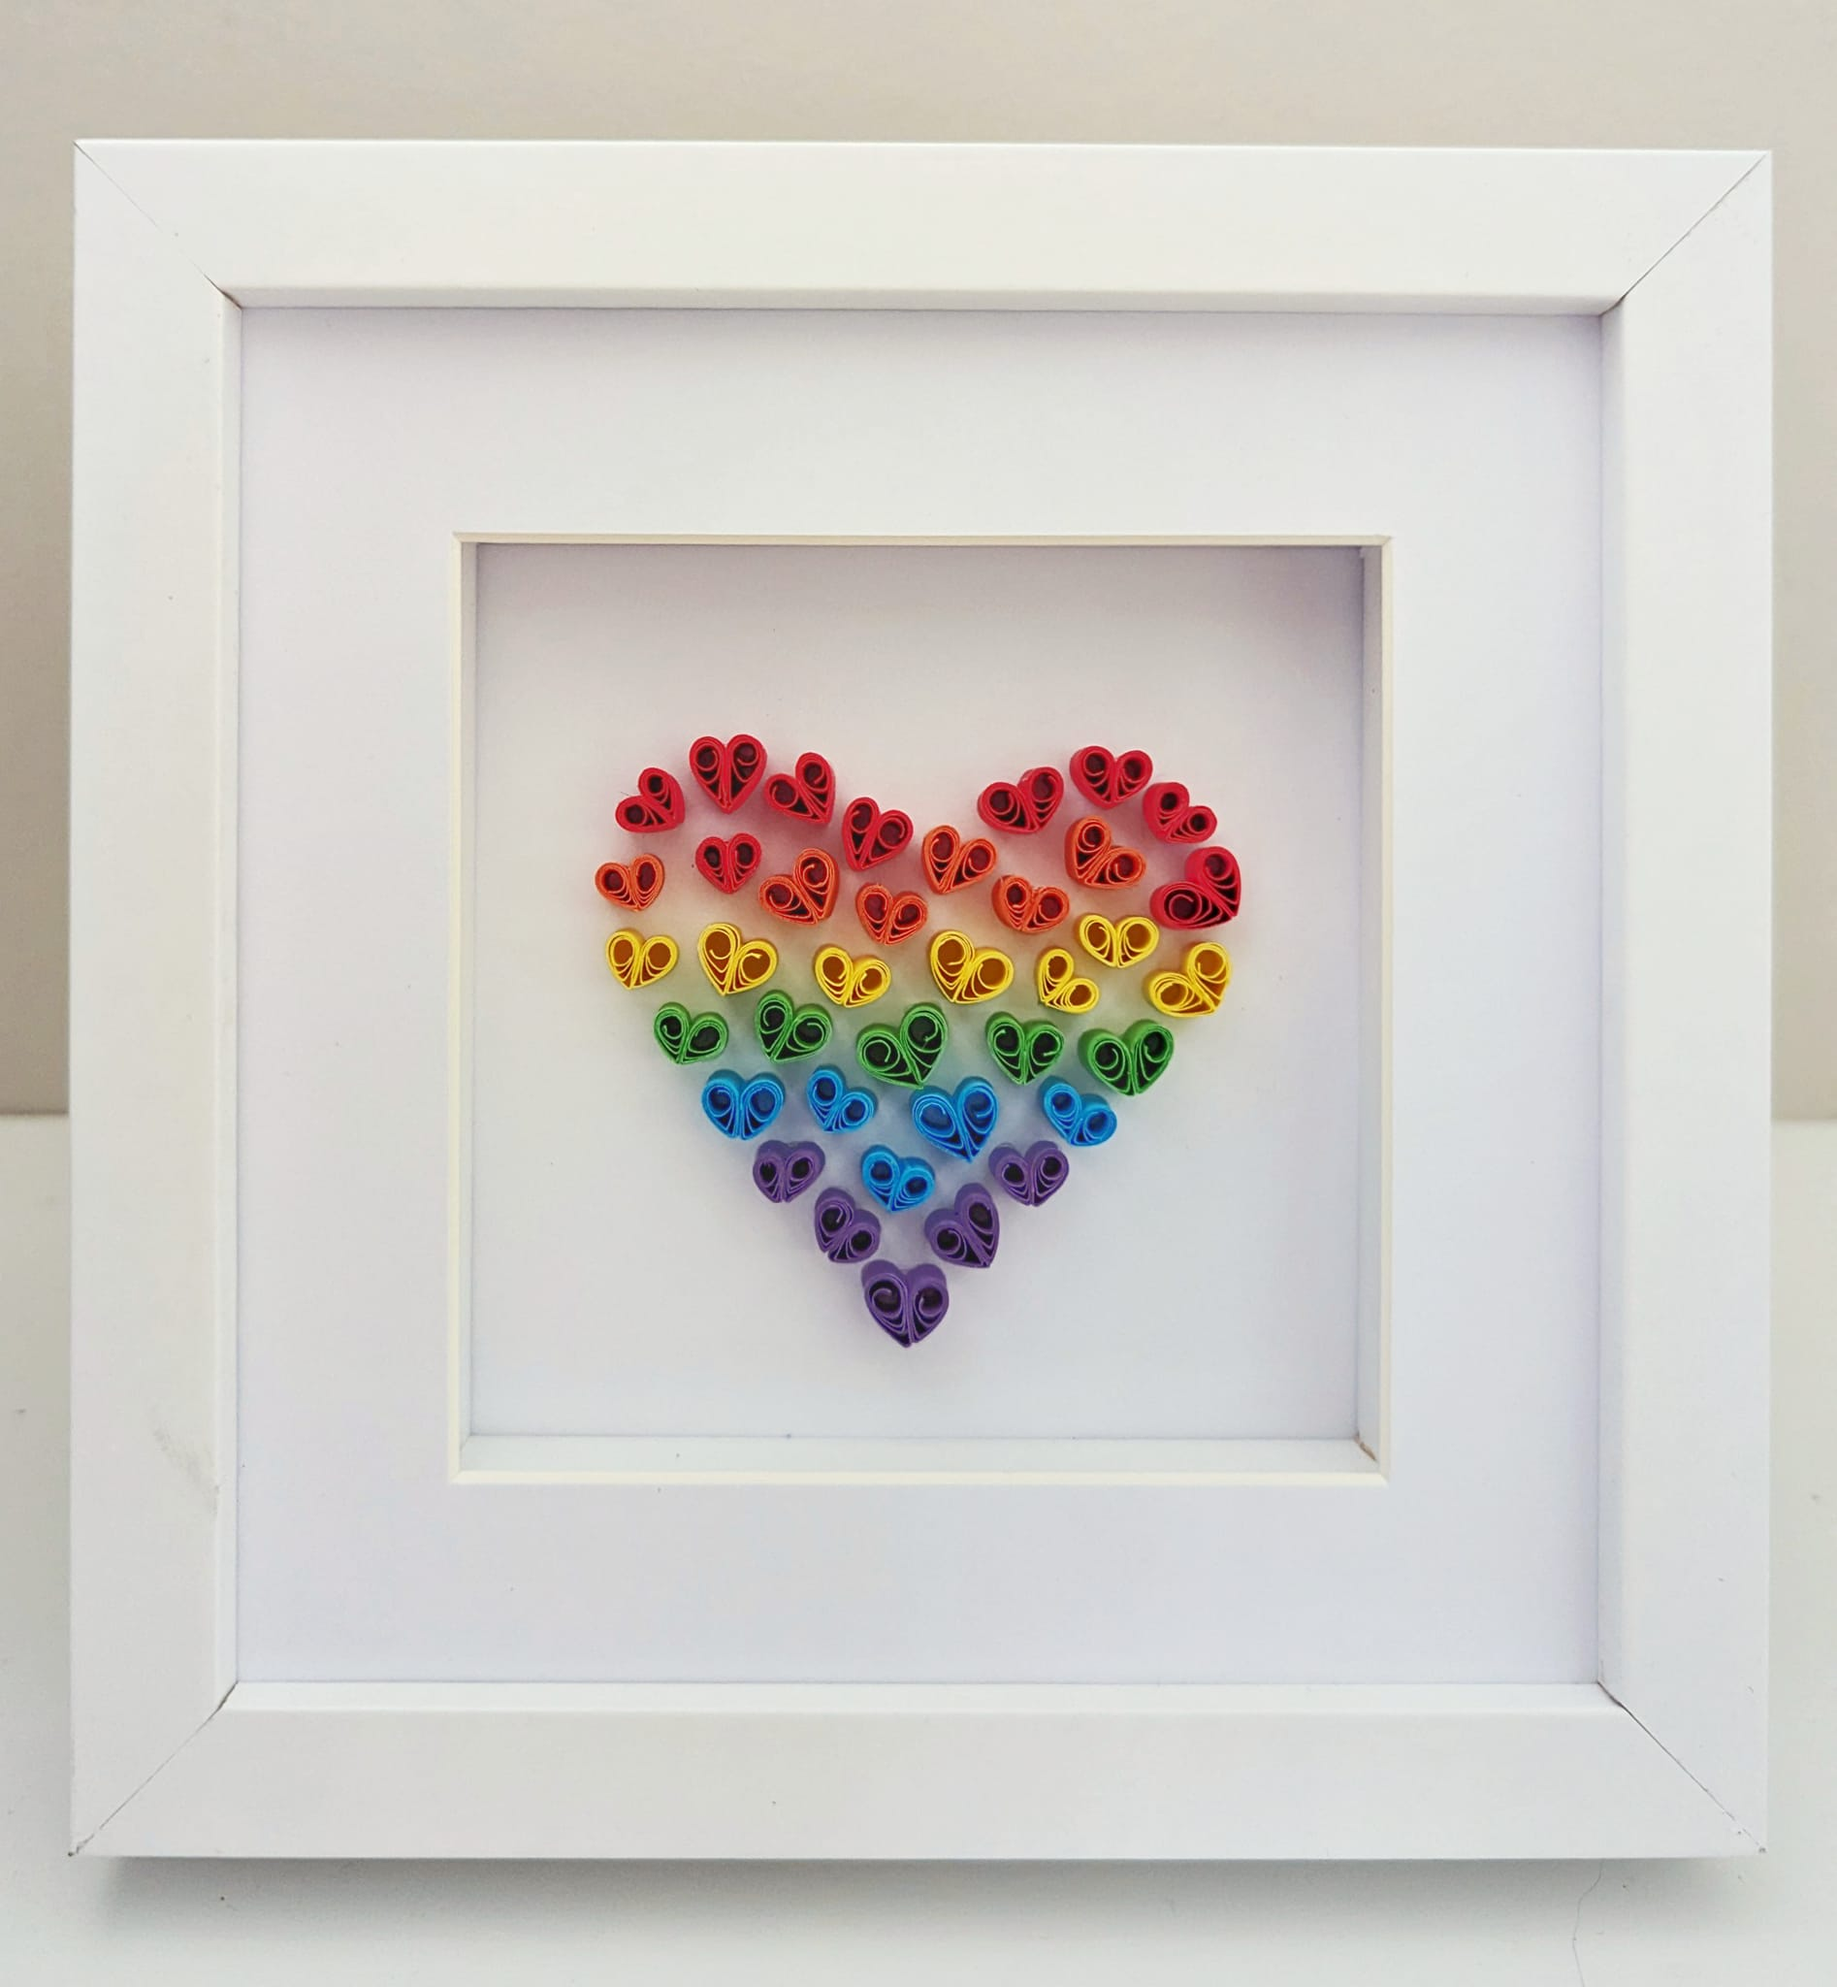
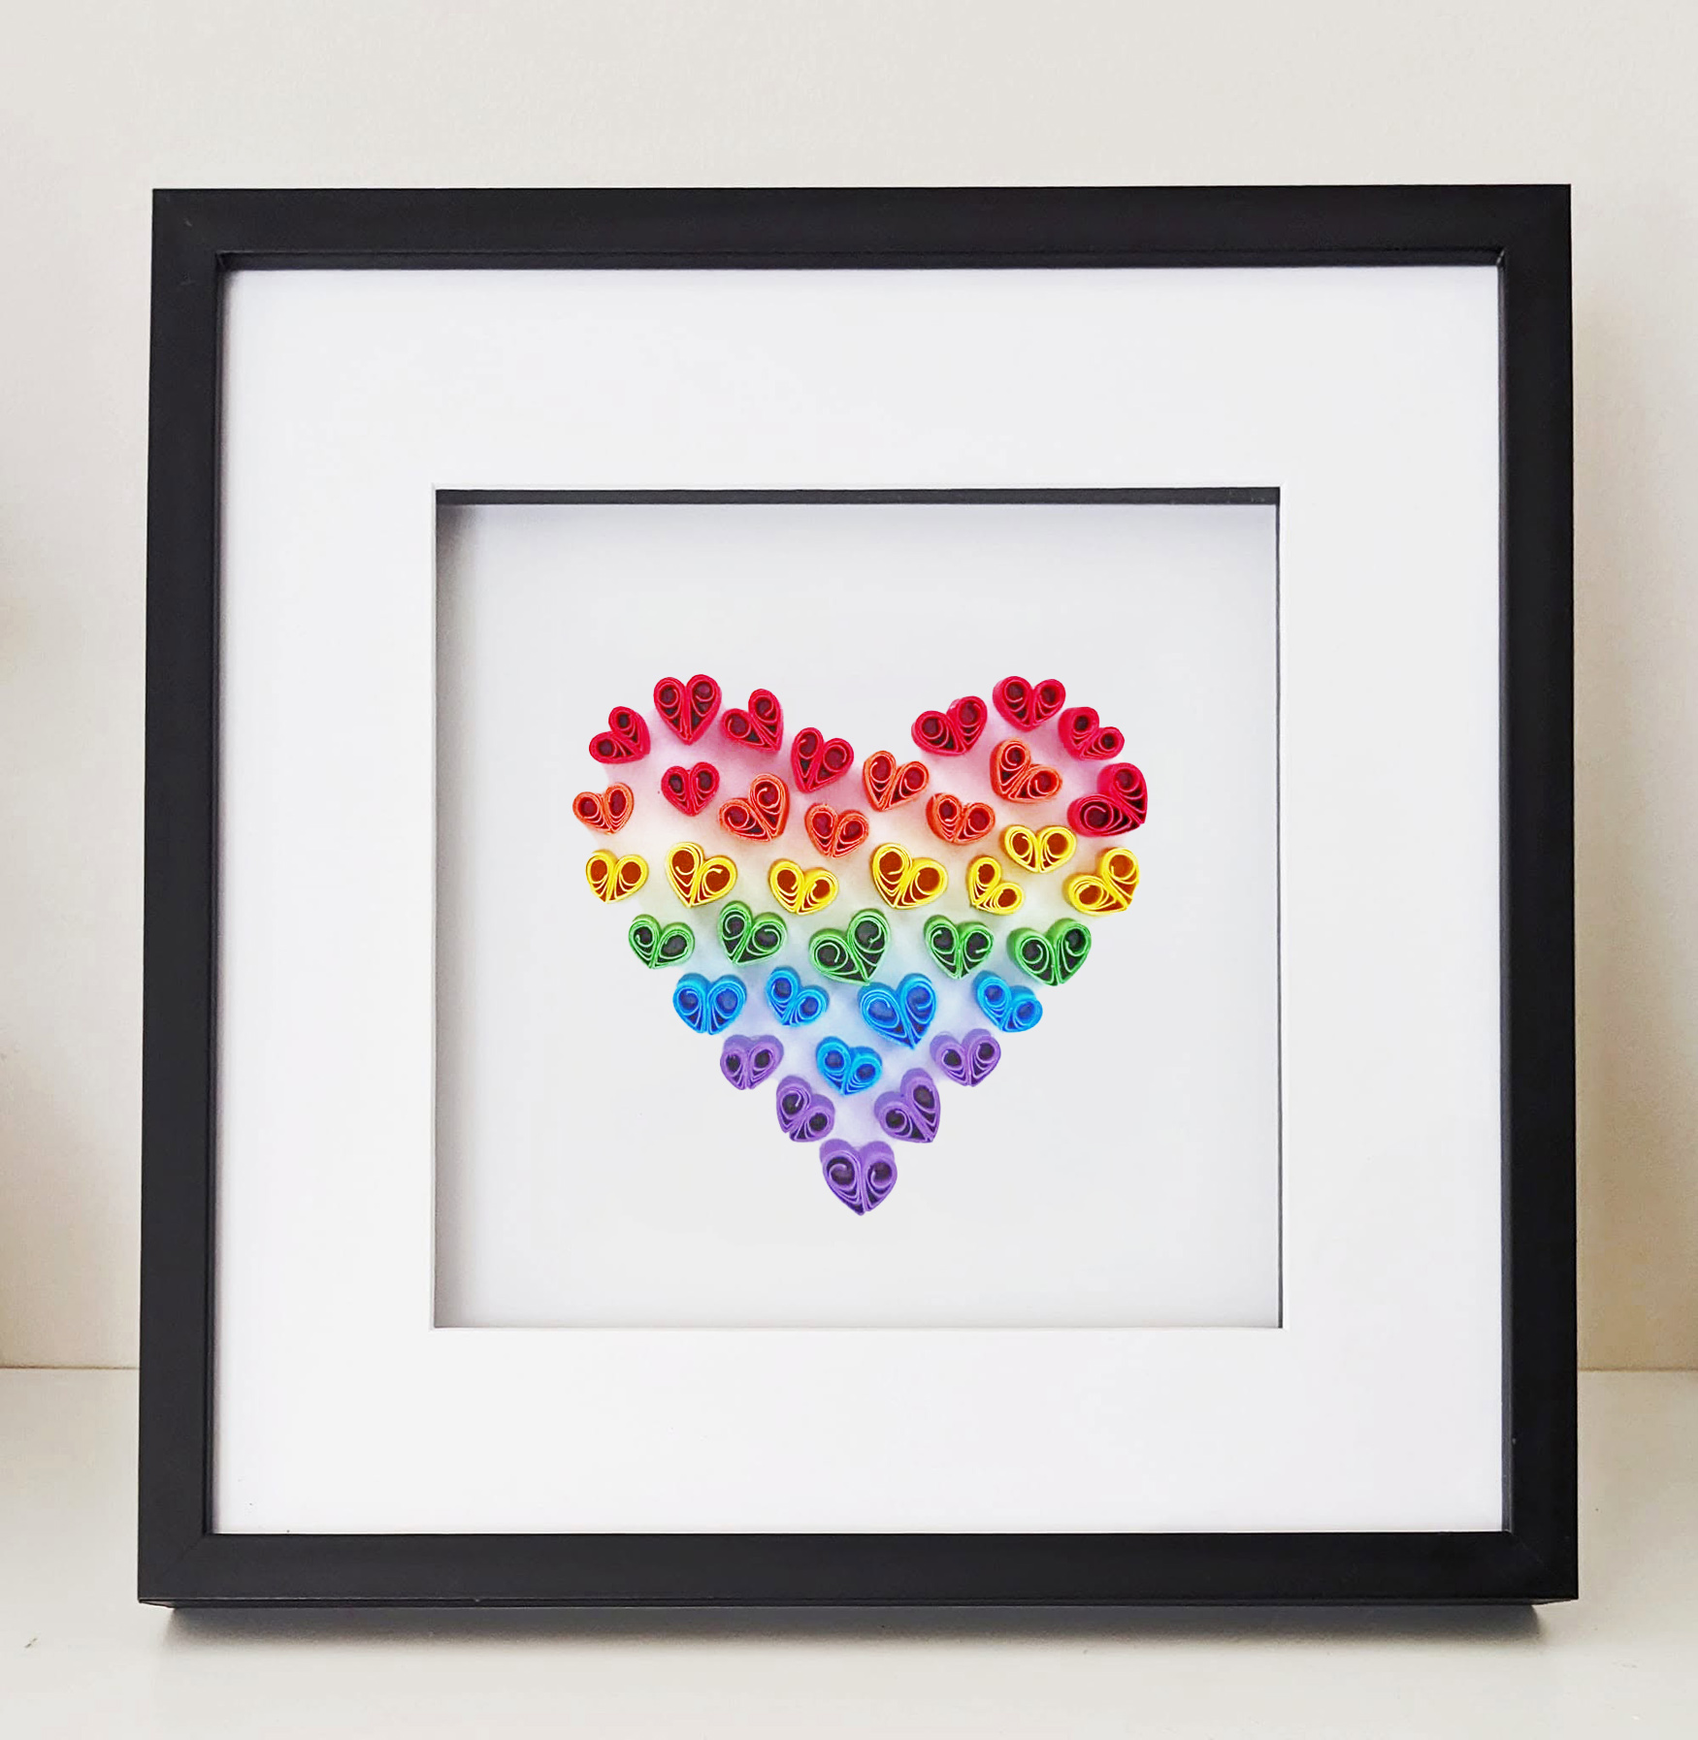
Gallery update: Rainbow Hearts in a Heart

diff --git a/src/content/products/rainbow-hearts-in-a-heart.md b/src/content/products/rainbow-hearts-in-a-heart.md
@@ -1,26 +1,25 @@
 ---
 id: P117
-title: "Rainbow Hearts in a Heart"
+title: Rainbow Hearts in a Heart
 category: framed
-themes: [patterns]
-status: sold
+themes:
+  - patterns
+status: available
+hidden: false
+featured: false
 collection: null
 commission_example: false
 multi_frame: false
 palette_variants: []
 frame_options: []
-price: 50
+price: 35
+lead_time: null
 images:
   main: ../../../images/P117/main.jpg
   angles: []
   process: []
 confidence: medium
 ---
-
 A heart-shaped composition built entirely from small dimensional quilled
-hearts — graduating from red at the top through orange, yellow, green,
-blue and purple at the point — packed densely so that the small hearts
-collectively form the larger heart silhouette. Mounted in a clean white
-square shadow-box frame. Closely related to P016 (rainbow heart of
-rolled coils); decide at consolidation whether to merge as a design
-variant.
+hearts 
+Mounted in a black square shadow-box frame sized 10x10cm
